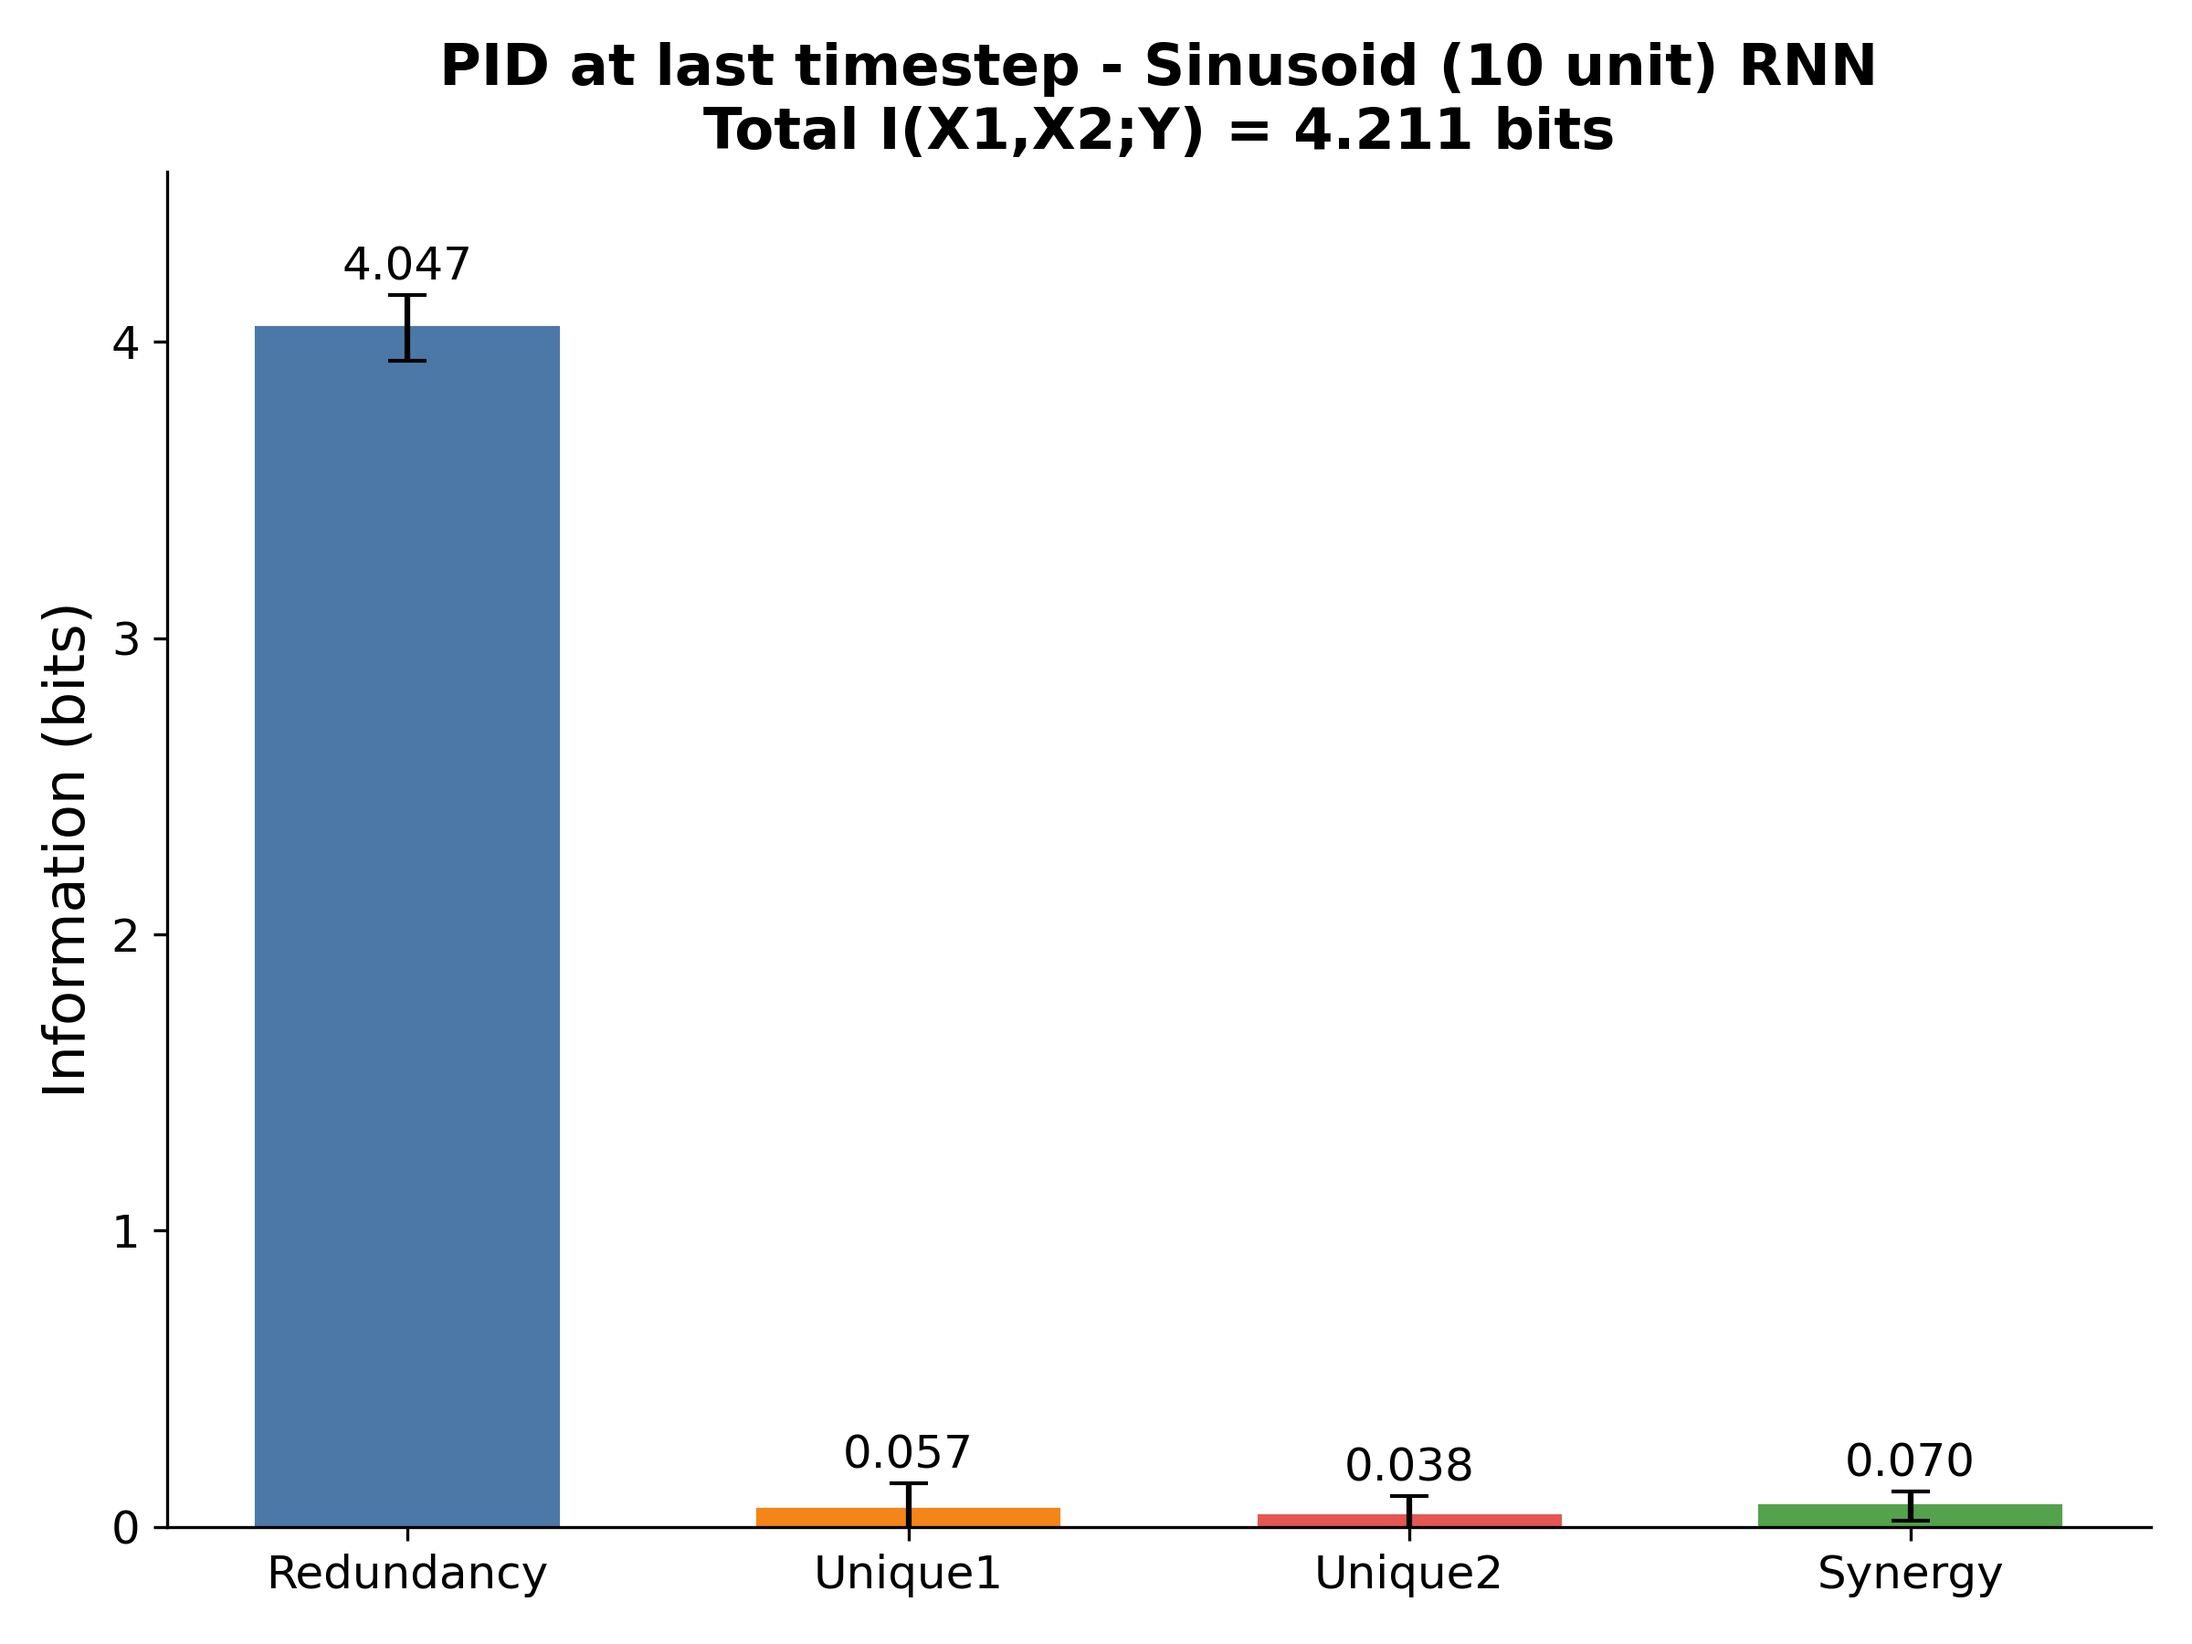
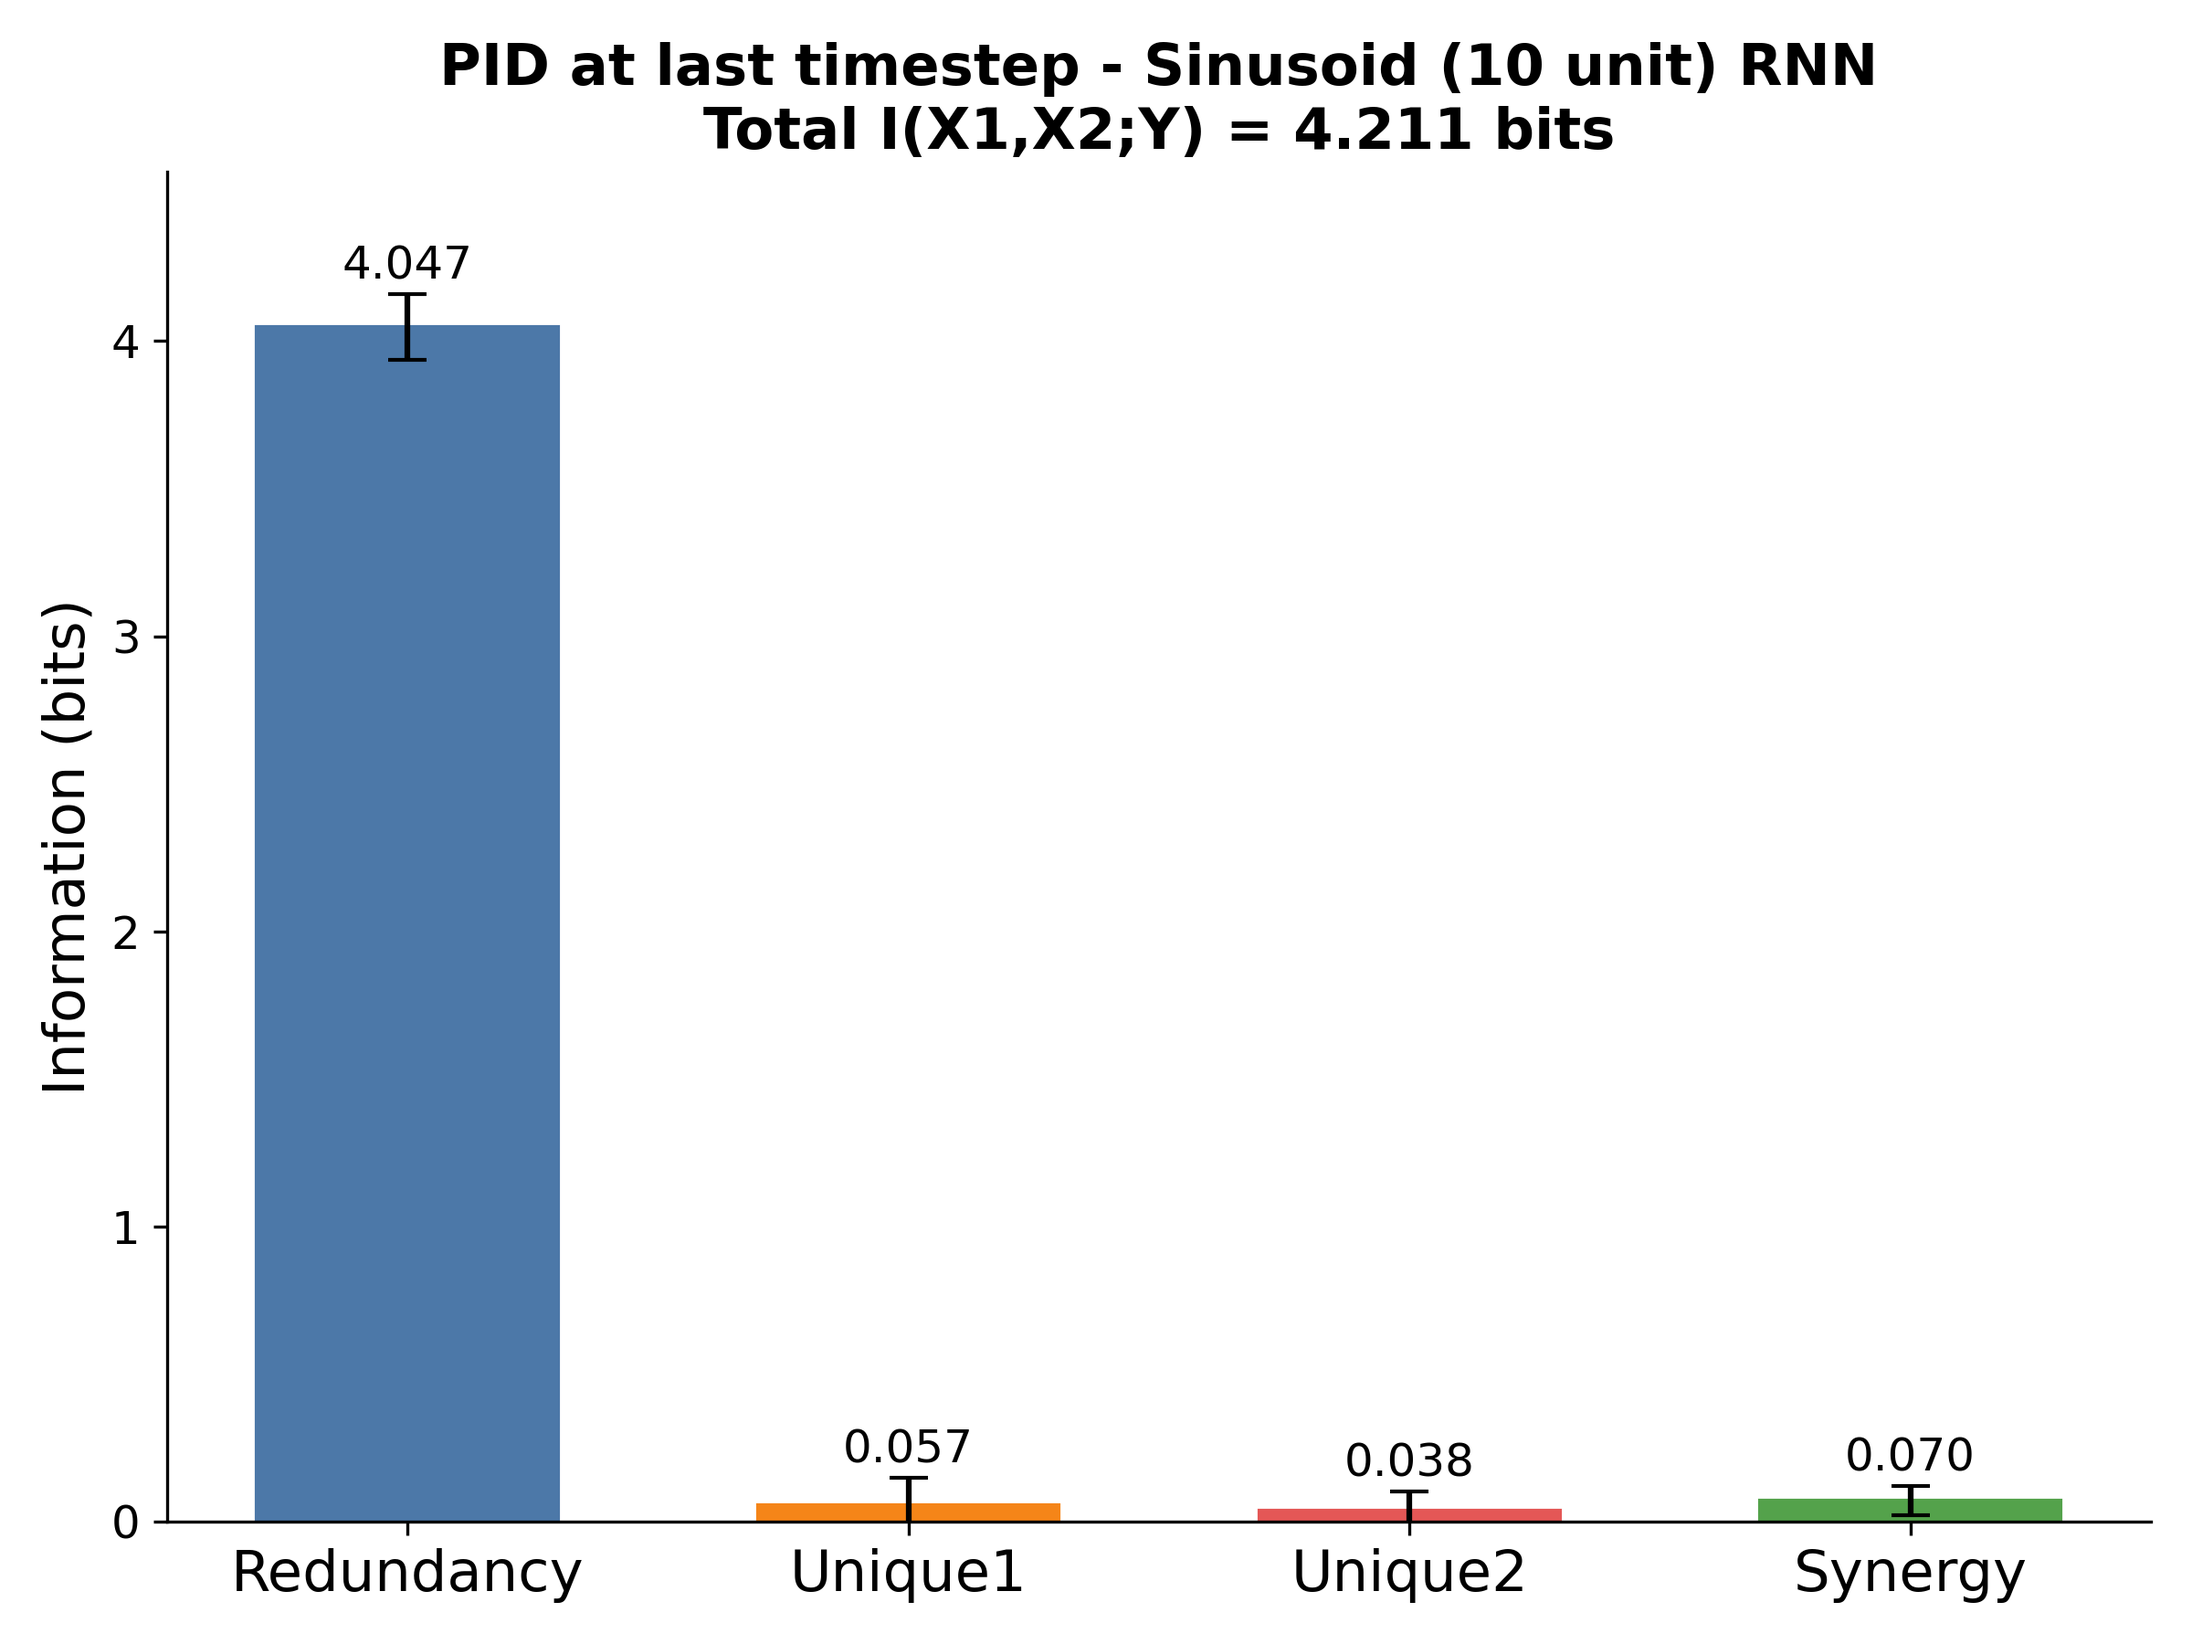
Increase label fontsize PID figures

diff --git a/src/analysis/PID_figures.py b/src/analysis/PID_figures.py
@@ -28,11 +28,11 @@ for bar, color in zip(bars, colors):
     bar.set_color(color)
 
 plt.title(f'PID at last timestep - {SYSTEM} (10 unit) RNN\nTotal I(X1,X2;Y) = {total:.3f} {unit}', fontsize=15, fontweight='bold')
+# Fontsize and limits
 plt.ylabel(f'Information ({unit})', fontsize=15)
-# Change xaxis label font size and remove ticks
-plt.xticks(fontsize=12)
 plt.yticks(fontsize=12)
 plt.ylim(0, max(v + s for v, s in zip(values, stds)) * 1.1)
+plt.xticks(fontsize=15)
 
 # Remove top and right edges
 plt.gca().spines['top'].set_visible(False)
